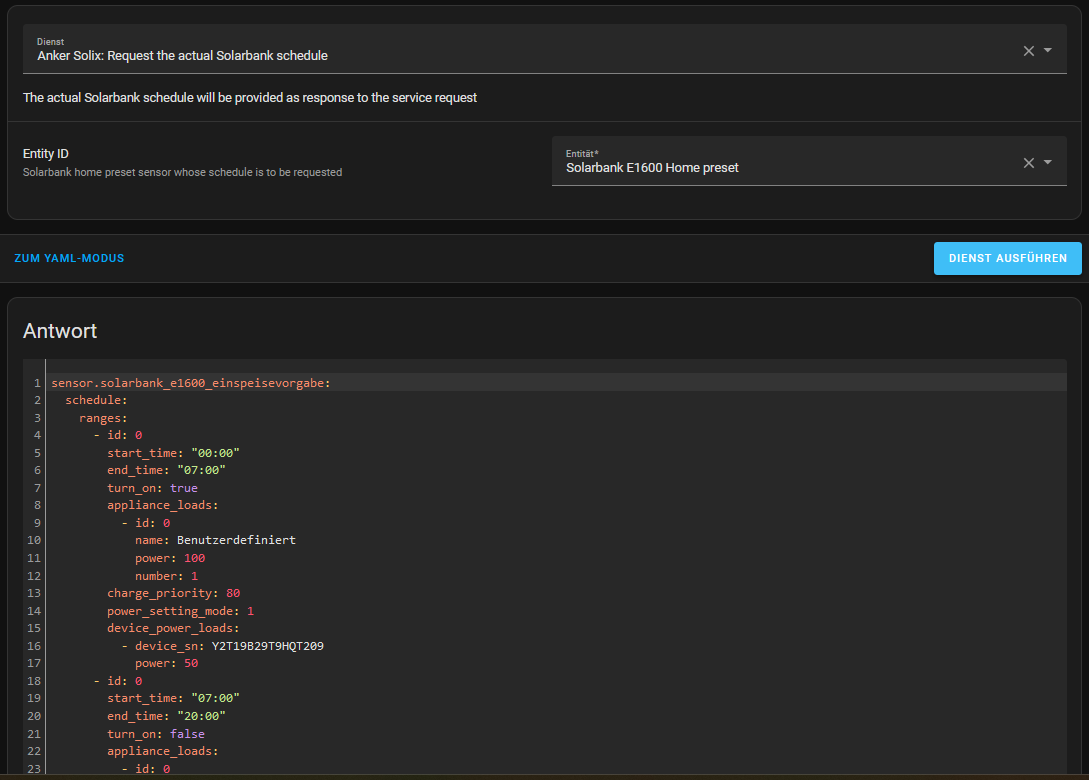
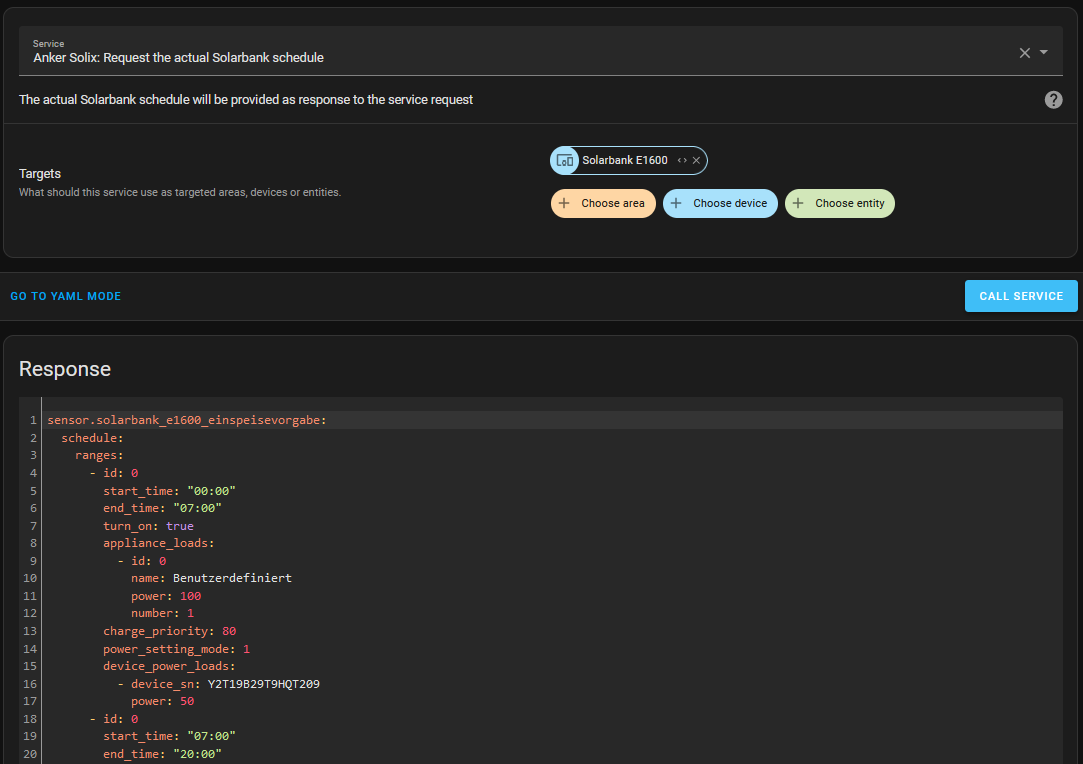
1.1.0

diff --git a/INFO.md b/INFO.md
@@ -261,14 +261,20 @@ The user bears the sole risk for a possible loss of the manufacturer's warranty 
 ### How can you modify the home load and the solarbank schedule
 
 Following 3 methods are implemented with version 1.1.0 of the integration:
-1. Direct parameter changes via entity modifications for Appliance Home Load preset, allowance of export and charge priority limit. Any change in those 3 entities is immediately applied to the current time slot in the existing schedule. Please see the Solarbank dashboard screenshots above for examples of the entity representation
+
+1. **Direct parameter changes via entity modifications for Appliance Home Load preset, allowance of export and charge priority limit**
+
+  Any change in those 3 entities is immediately applied to the current time slot in the existing schedule. Please see the Solarbank dashboard screenshots above for examples of the entity representation
   - **A word of caution:** When you represent the home load number entity as input field in your dashboard cards, do **NOT use the step up/down arrows** but enter the home load value directly in the field. Each step via the field arrows triggers a settings change immediately, and increases are restricted for min. 30 second intervals. Preferrably use a slider for manual number modifications, since the value is just applied to the entity  once you release the slider movement (do not release the slider until you moved it to the desired value).
-2. Solarbank schedule modifications via services. They are useful to apply manual or automated changes for times that are beyond the current time interval. Following 3 services are available:
+
+2. **Solarbank schedule modifications via services**
+
+  They are useful to apply manual or automated changes for times that are beyond the current time interval. Following 3 services are available:
   - **Set new Solarbank schedule:** Allows wiping out the defined schedule and defines a new interval with the customizable schedule parameters above
   - **Update Solarbank schedule:** Allows inserting/updating/overwriting a time interval in the existing schedule with the customizable schedule parameters above. Adjacent intervals will be adjusted automatically
   - **Request Solarbank schedule:** Queries the actual schedule and returns the whole schedule JSON object, which is also provided in the schedule attribute of the Solarbank device output preset sensor.
 
-  Most of the schedule changes should be done by the update service since the Api library has built in simplifications for interval changes. The update service follows the insert methodology for the specified interval using following rules:
+  You can specify the solarbank device id or the entity ID of the solarbank output preset sensor as target for those services. The service UI in HA developper tools will filter the devices and entities that support the solarbank schedule services. I recommend using the entity ID as target when using the service in automations since the device ID is an internal registry value which is difficult to map to a context. In general, most of the solarbank schedule changes should be done by the update service since the Api library has built in simplifications for time interval changes. The update service follows the insert methodology for the specified interval using following rules:
   - Adjacent slots are automatically adjusted with their start/end times
     - Completely overlayed slots are automatically removed
     - Smaller interval inserts result in 1-3 intervals for the previous time range, depending on the update interval and existing interval time boundaries
@@ -282,17 +288,18 @@ Following 3 methods are implemented with version 1.1.0 of the integration:
     - Allow Export is ON
     - 80 % Charge Priority limit
   - The Set schedule service also requires to specify the time interval for the first slot. However, testing has shown that the provided times are ignored and a full day interval is always created when only a single interval is provided with a schedule update via the Api.
-3. Interactive solarbank schedule modification via a parameterized script that executes a schedule service with provided parameters
-  - HA 2024.3 provides a new capability to define fields for script parameters that can be filled via the more info dialog of the script entity prior execution
-  - This allows easy integration of schedule modifications to your dashboard (see example script and dashboard below)
+
+3. **Interactive solarbank schedule modification via a parameterized script that executes a schedule service with provided parameters**
+
+  Home Assistant 2024.3 provides a new capability to define fields for script parameters that can be filled via the more info dialog of the script entity prior execution. This allows easy integration of schedule modifications to your dashboard (see example script and dashboard below).
 
 Following are screenshots showing the schedule service UI panel (identical for Set schedule and Update schedule service), and the Get schedule service with an example:
 
-**1. Set or Update schedule service UI panel**
+**1. Set or Update schedule service UI panel example, using the entity as target**
 
 ![Update schedule service][schedule-service-img]
 
-**2. Get schedule service example**
+**2. Get schedule service example, using the device as target**
 
 ![Get schedule service][request-schedule-img]
 
@@ -372,7 +379,7 @@ fields:
   end_time:
     name: End time
     description: >-
-      End time of the interval (seconds are ignored). For setting 24:00, enter 23:59
+      End time of the interval (seconds are ignored). For 24:00 you must enter 23:59
     required: true
     default: "23:59:00"
     selector:
@@ -411,8 +418,9 @@ fields:
 sequence:
   - service: |
       {{service}}
+    target:
+      entity_id: sensor.solarbank_e1600_home_preset
     data:
-      entity_id: sensor.sb_e1600_einspeisevorgabe
       start_time: |
         {{start_time}}
       end_time: |
